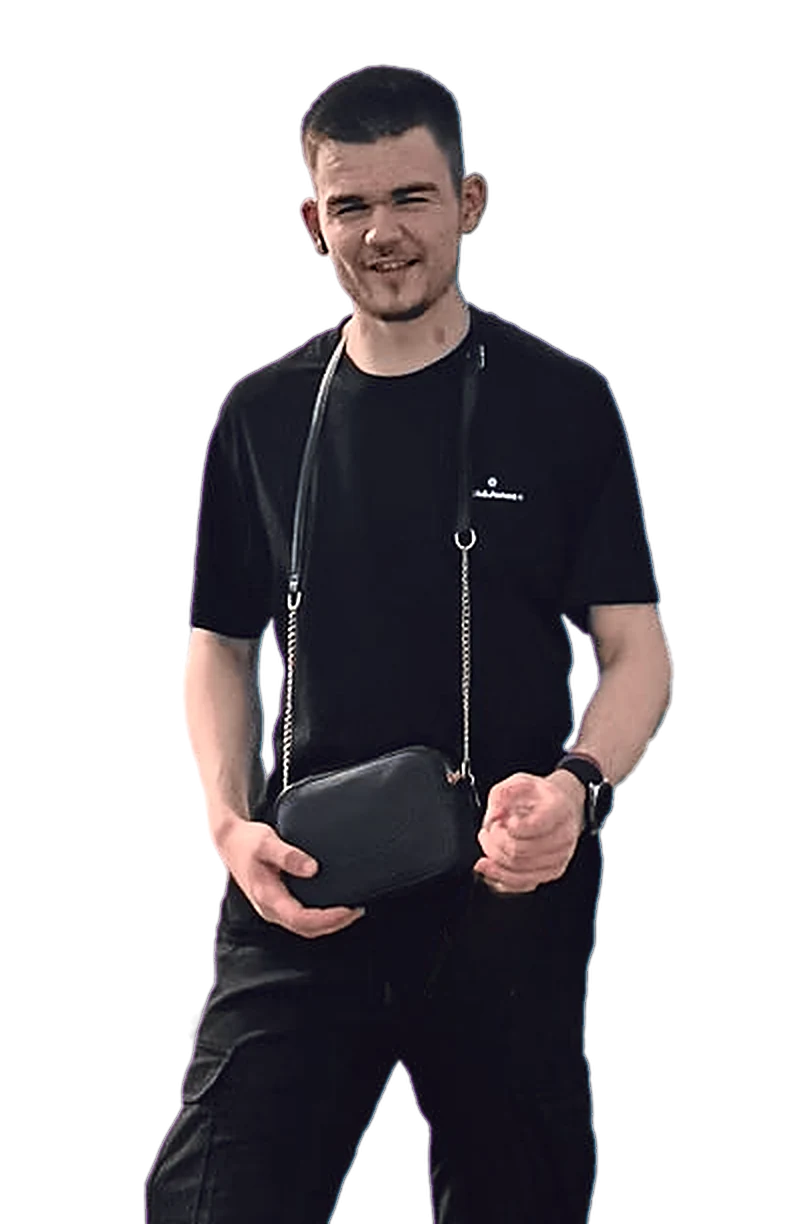
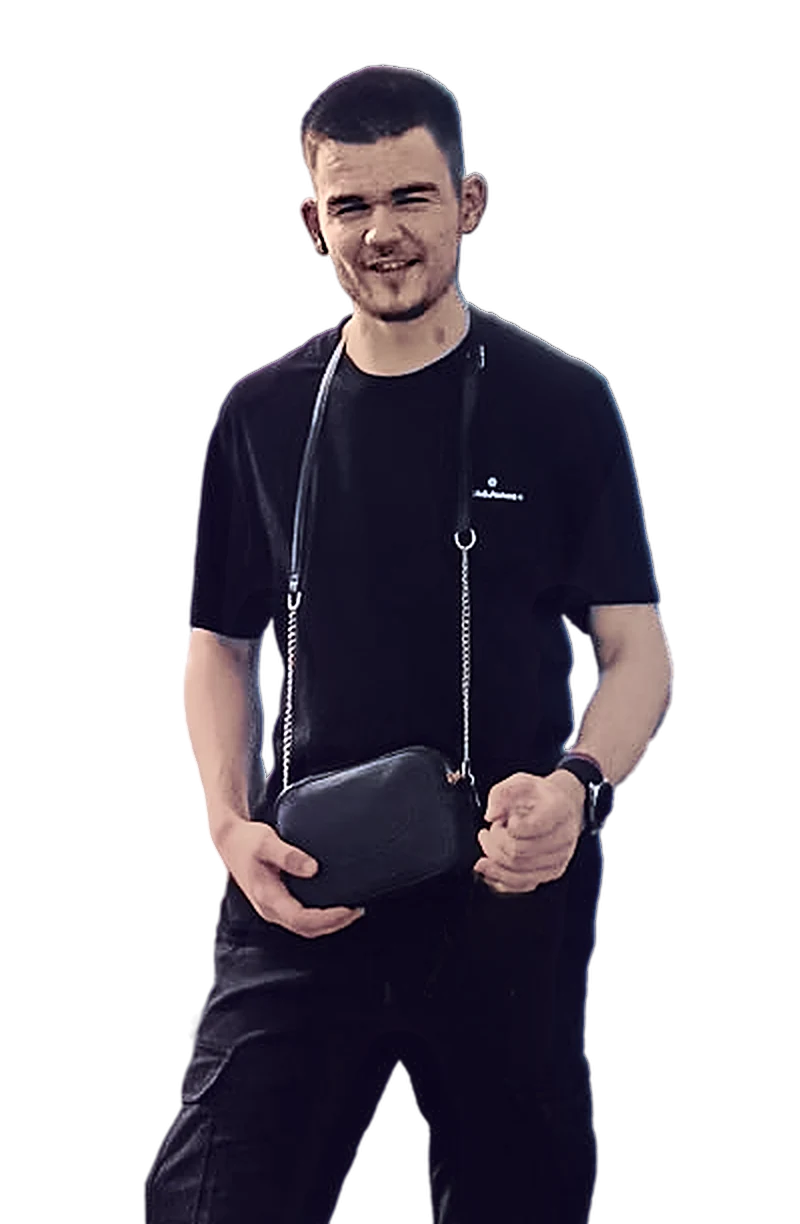
Grade the hero cut-out into the ring light
He was cut from a sunny photo and pasted on a dark violet page, so he
read as a sticker. The colour work now matches the scene: cool white
balance off the skin, a violet toe on the black clothes so they stay
black instead of going grey, more contrast, and the afternoon exposure
taken off the skin with the sunlit ears calmed.

The rim light is directional now. Its colour is sampled from the ring's
own gradient and its width follows how much each piece of his outline
faces the bright side, so the even hairline that used to trace all the
way around is gone, and the side facing away is darkened instead of lit.

Same framing, same size, same alpha: only the pixels changed.

diff --git a/CLAUDE.md b/CLAUDE.md
@@ -114,7 +114,7 @@ missing key fails the build instead of publishing a blank.
   page, so never put `text-transform: uppercase` on anything that shows it.
   `npm run check` catches it in the language files.
 - After changing anything in `/assets`, add one to `asset_version` in
-  `_config.yml`. Every page follows. Currently `13`.
+  `_config.yml`. Every page follows. Currently `14`.
 - Run `npm run check`, and build once with real Jekyll if you changed a
   template: the preview matches it, but GitHub is the one that publishes.
 - New text colours are tokens defined for both themes; measure each against

diff --git a/README.md b/README.md
@@ -169,7 +169,7 @@ Do not open the files directly: they are templates, and root-absolute paths
 Every `/assets` reference carries `?v={{ site.asset_version }}`. Pages caches
 assets for ten minutes and browsers far longer, so after changing anything in
 `/assets`, add one to `asset_version` in `_config.yml`. Every page follows.
-Currently `13`.
+Currently `14`.
 
 ## Embeds
 
